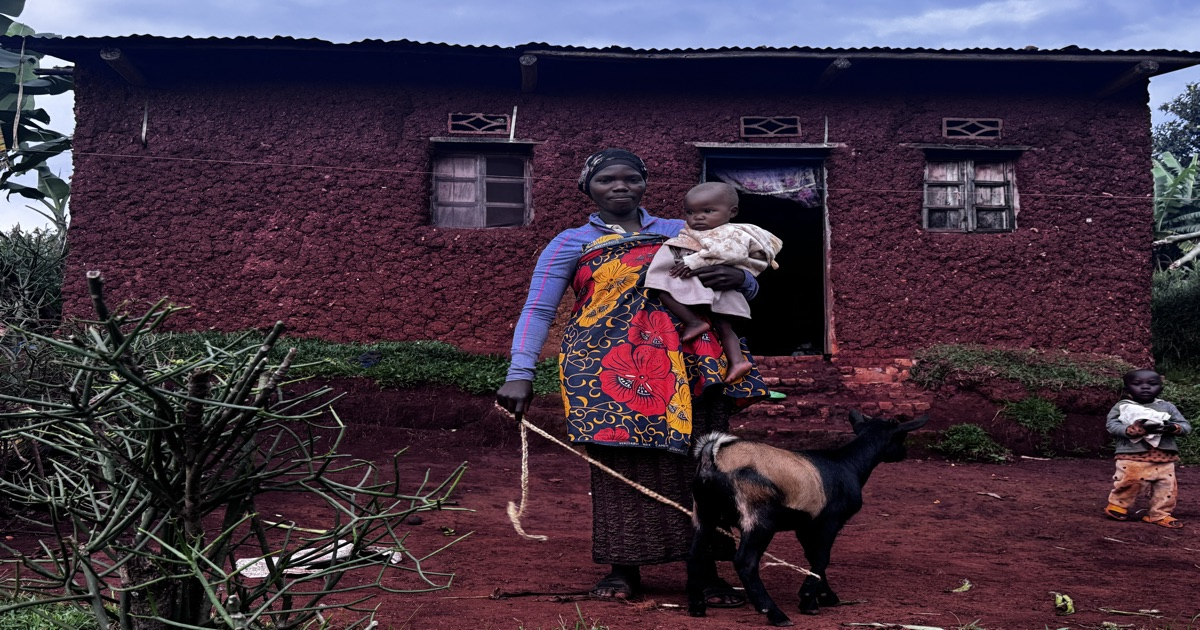
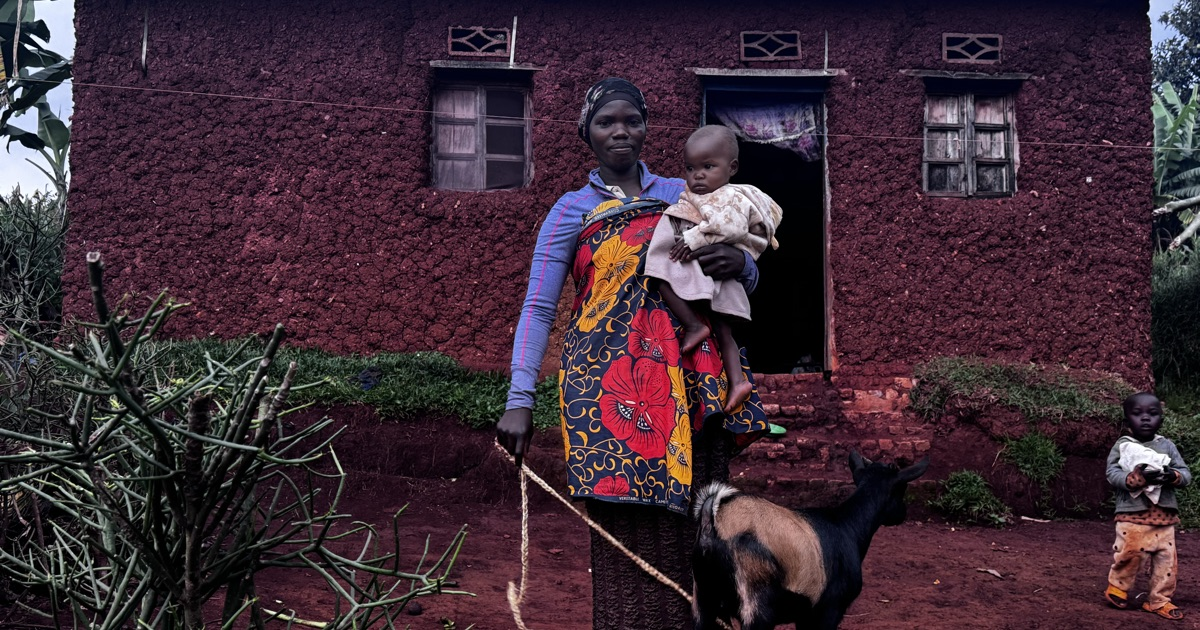
Fix mobile Safari viewport cutoff, reduce Closeup max zoom, fix OG image
- Replace 100vh with 100dvh across all components for Safari toolbar
- Reduce Closeup zoomRange max from 1.5 to 1.2
- Re-export OG image with proper center crop (no distortion)

diff --git a/src/app/page.tsx b/src/app/page.tsx
@@ -23,7 +23,7 @@ export default async function Home() {
   const config = await getConfig();
 
   return (
-    <main style={{ width: '100vw', height: '100vh', position: 'relative' }}>
+    <main style={{ width: '100vw', height: '100dvh', position: 'relative' }}>
       <SplatViewer config={config} />
     </main>
   );

diff --git a/src/components/UI/CLILoader.tsx b/src/components/UI/CLILoader.tsx
@@ -193,7 +193,7 @@ export function CLILoader({ onReady, isMobile, lang = "en" }: CLILoaderProps) {
     <div
       style={{
         width: "100vw",
-        height: "100vh",
+        height: "100dvh",
         display: "flex",
         alignItems: "center",
         justifyContent: "center",

diff --git a/src/components/SplatViewer/SplatViewer.tsx b/src/components/SplatViewer/SplatViewer.tsx
@@ -474,7 +474,7 @@ export default function SplatViewer({ config }: SplatViewerProps) {
     return (
       <div style={{
         width: '100vw',
-        height: '100vh',
+        height: '100dvh',
         display: 'flex',
         alignItems: 'center',
         justifyContent: 'center',

diff --git a/src/components/SplatViewer/index.tsx b/src/components/SplatViewer/index.tsx
@@ -10,7 +10,7 @@ const SplatViewerComponent = dynamic(() => import('./SplatViewer'), {
     <div
       style={{
         width: '100vw',
-        height: '100vh',
+        height: '100dvh',
         backgroundColor: '#000',
       }}
     />
